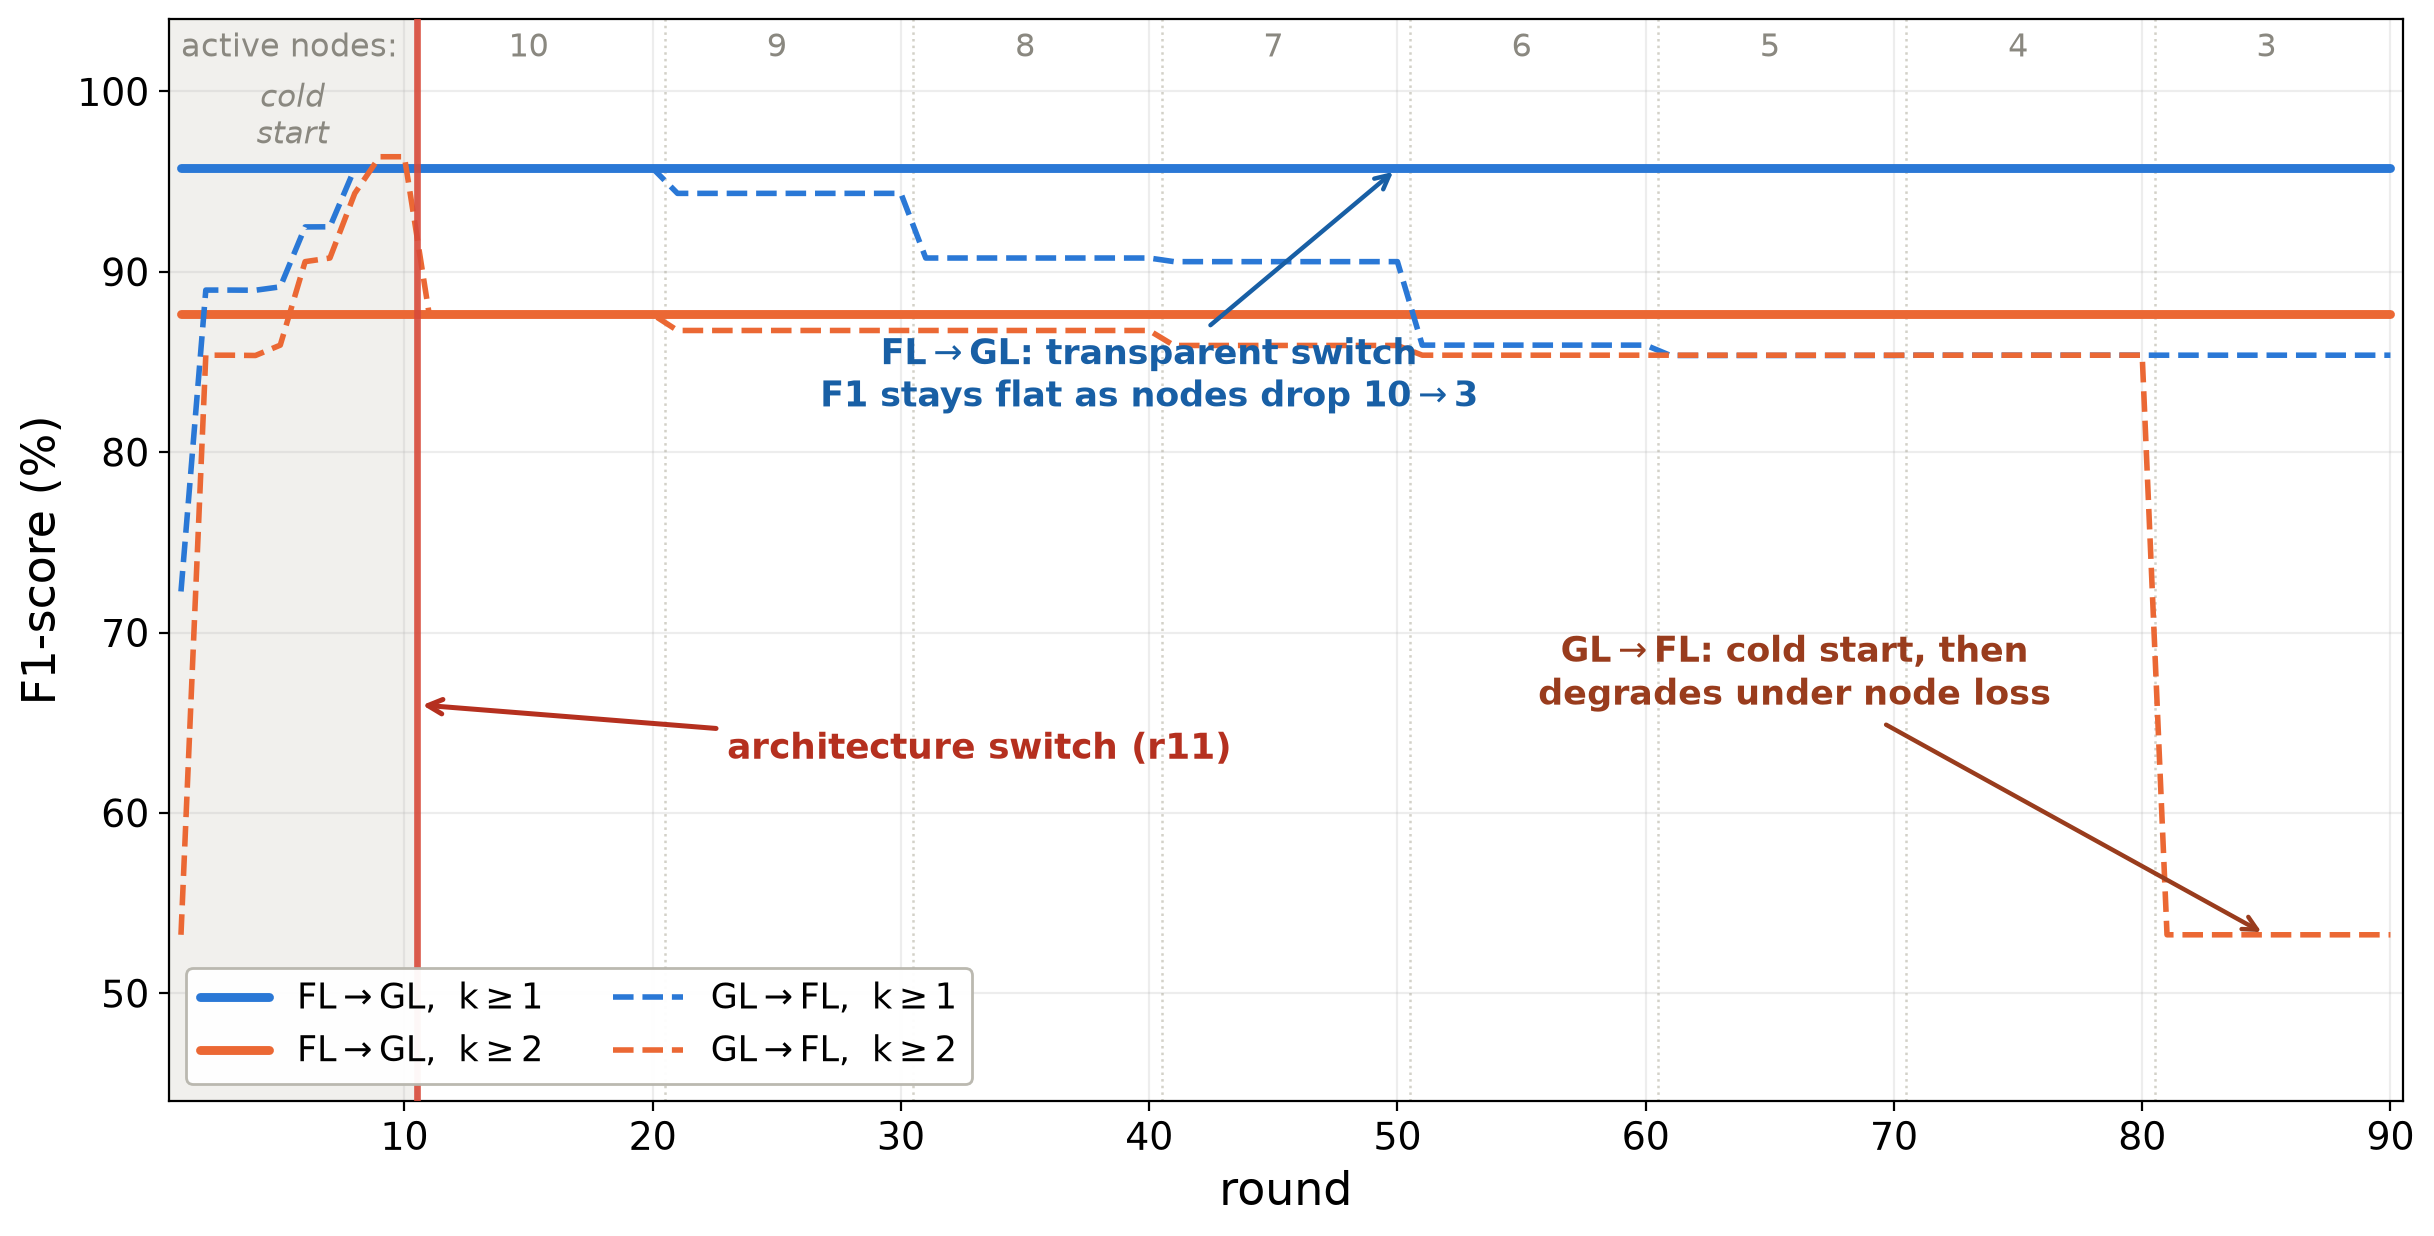
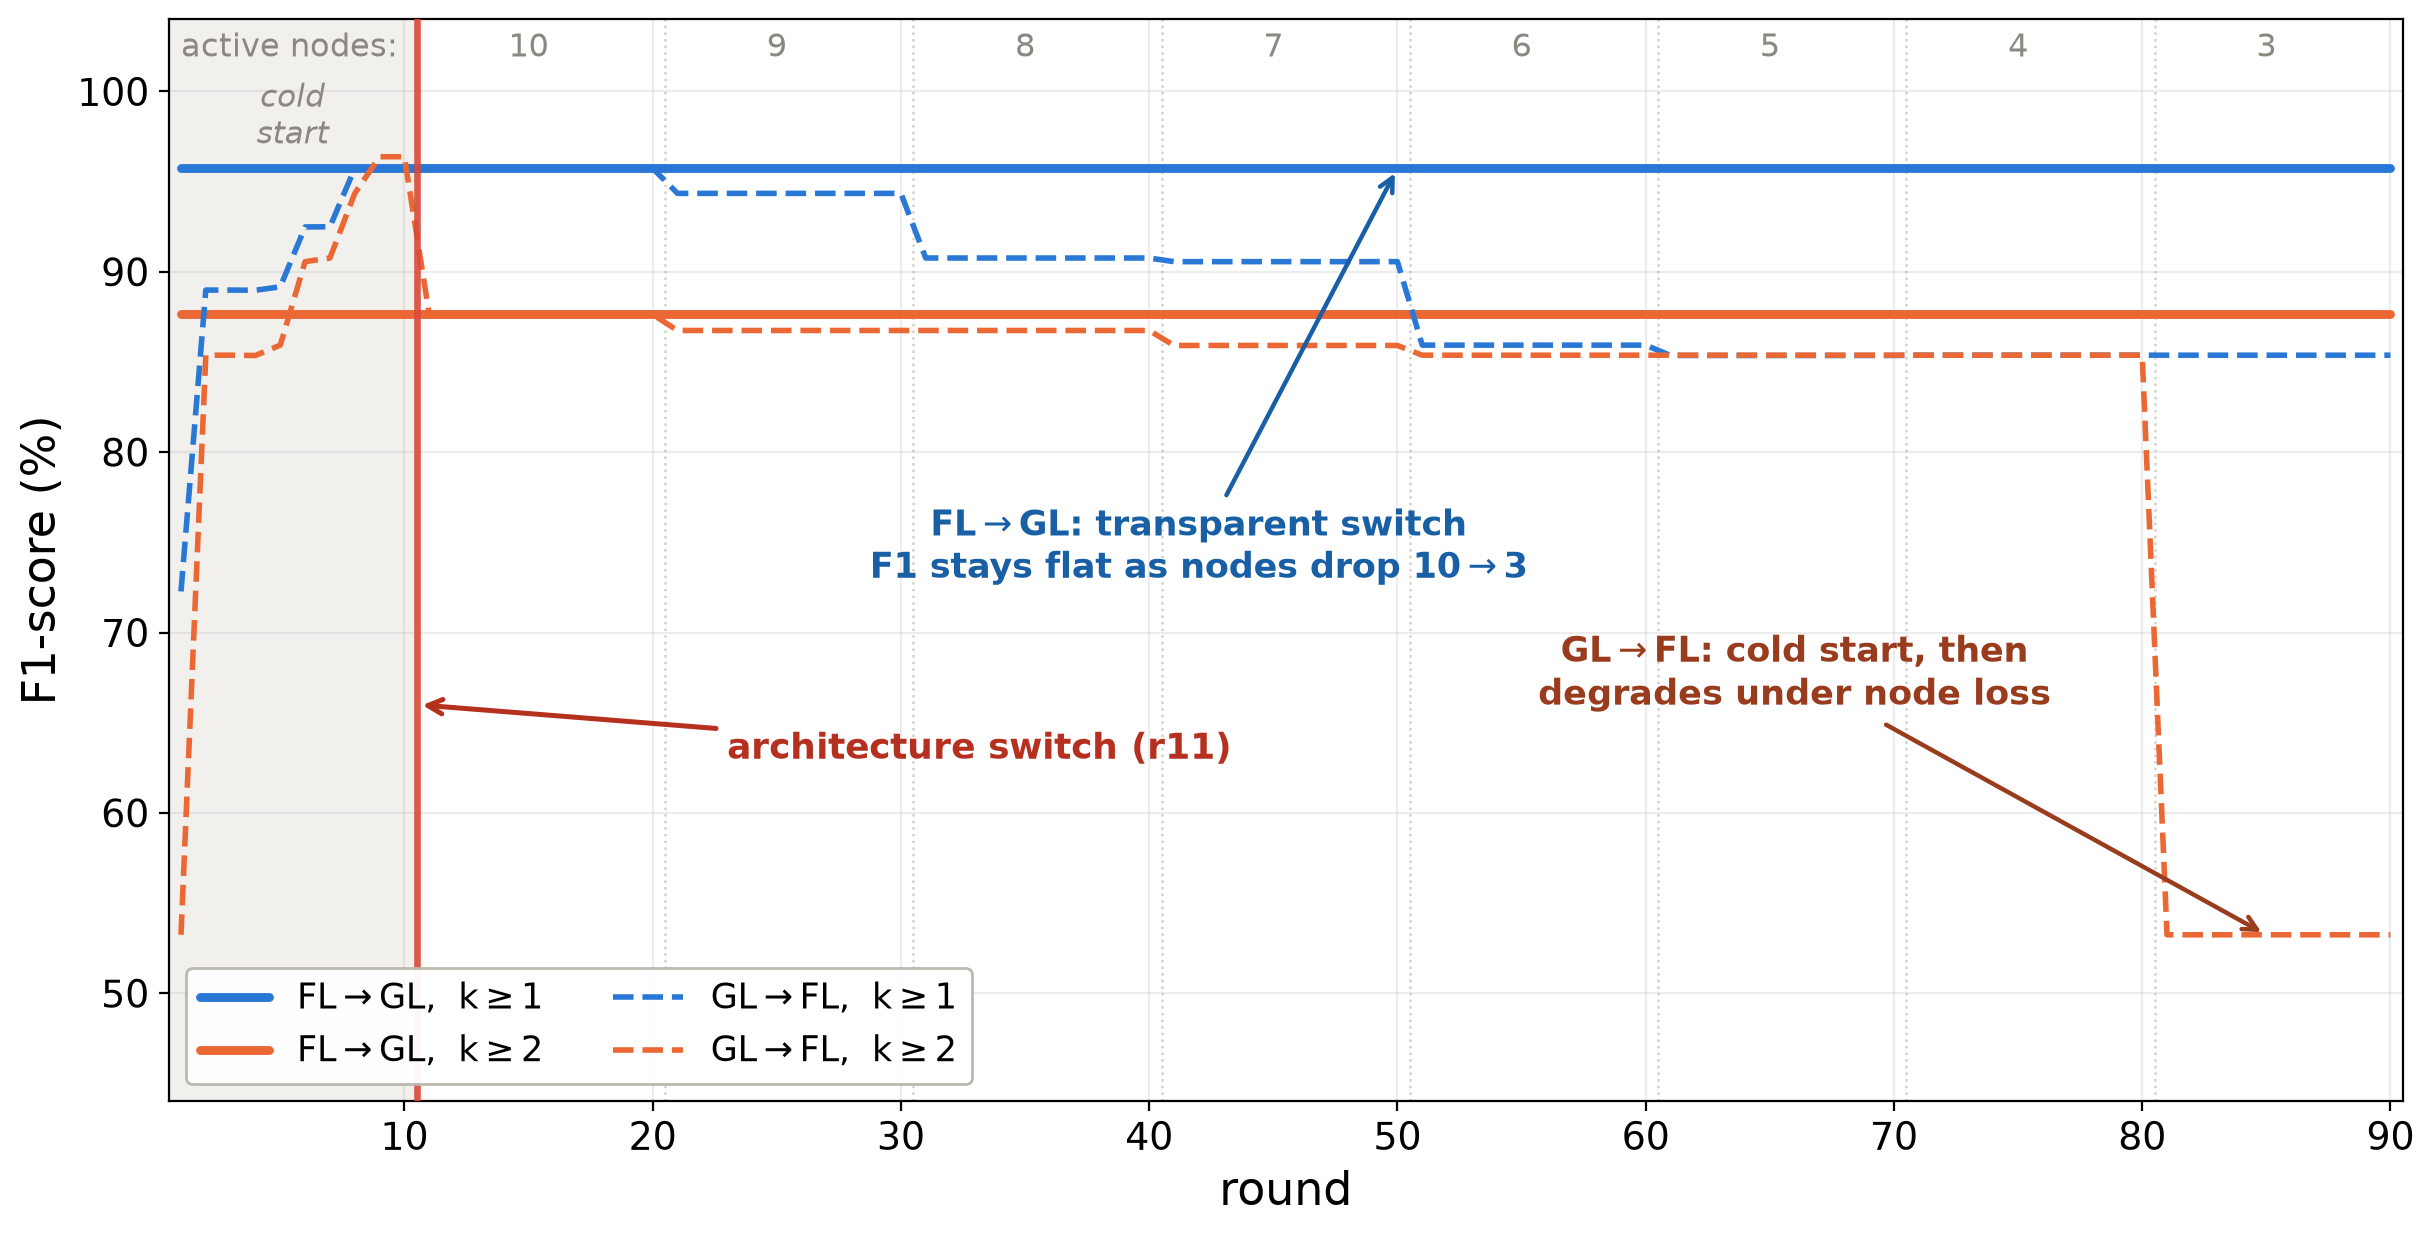
Add vs-IID contrast script (Table 13 provenance) and fix Figure 3 annotation
- scripts/contrasts_vs_iid.py: computes the three primary contrasts against the
  IID baseline (specialist vs IID under OR and k>=2; k>=2 cuts specialist FPR)
  with Holm-Bonferroni, from the saved per-seed data (no retraining). All three
  are p_Holm < 0.001, reproducing Table 13. This supersedes factorial_holm.py's
  own contrasts, which were taken against the non-specialist average.
- MANIFEST.json: register contrasts_vs_iid.csv as the Table 13 producer; relabel
  factorial_holm.csv as the per-seed data source.
- plot_transicao_adaptativa.py: lower the FL->GL annotation off the curves;
  regenerate transicao_adaptativa.{png,pdf}.

diff --git a/scripts/contrasts_vs_iid.py b/scripts/contrasts_vs_iid.py
@@ -1,0 +1,70 @@
+#!/usr/bin/env python3
+"""Three primary contrasts vs IID (paired across seeds) + Holm-Bonferroni.
+
+Produces Table 13 (specialist vs IID reference). Reads the per-seed factorial
+results (results/factorial_holm.csv) and computes the paired t-tests against the
+IID baseline (NOT the non-specialist average), which is what the paper reports:
+  C1: specialist > IID under OR (k=1), F1
+  C2: k>=2 cuts the specialist false-positive rate (OR FPR - k>=2 FPR)
+  C3: specialist > IID under corroboration (k>=2), F1
+No retraining: consumes the saved per-seed data. Saida: results/contrasts_vs_iid.csv
+Rodar: ~/venv-ereno314/bin/python scripts/contrasts_vs_iid.py
+"""
+import collections
+import csv
+import os
+
+import numpy as np
+from scipy import stats
+
+HERE = os.path.dirname(os.path.dirname(os.path.abspath(__file__)))
+SRC = os.path.join(HERE, "results", "factorial_holm.csv")
+OUT = os.path.join(HERE, "results", "contrasts_vs_iid.csv")
+
+
+def main():
+    d = collections.defaultdict(dict)
+    with open(SRC) as fh:
+        for r in csv.DictReader(fh):
+            d[int(r["seed"])][(r["partitioner"], int(r["k"]))] = {
+                "F1": float(r["F1"]), "FPR": float(r["FPR"])}
+    seeds = sorted(d)
+
+    def col(part, k, metric):
+        return np.array([d[s][(part, k)][metric] for s in seeds])
+
+    contrasts = {
+        "C1: specialist>IID (OR, F1)":  col("specialist", 1, "F1") - col("iid", 1, "F1"),
+        "C2: k>=2 cuts FPR (specialist)": col("specialist", 1, "FPR") - col("specialist", 2, "FPR"),
+        "C3: specialist>IID (k>=2, F1)": col("specialist", 2, "F1") - col("iid", 2, "F1"),
+    }
+    raw = {name: (float(arr.mean()), float(stats.ttest_1samp(arr, 0.0).pvalue))
+           for name, arr in contrasts.items()}
+
+    # Holm-Bonferroni (step-down) over the family of 3
+    order = sorted(raw, key=lambda n: raw[n][1])
+    m = len(order); run = 0.0; holm = {}
+    for i, name in enumerate(order):
+        run = max(run, min(1.0, raw[name][1] * (m - i)))
+        holm[name] = run
+
+    print(f"[contrasts] {len(seeds)} seeds: {seeds}")
+    print(f"{'contrast':<32}{'effect':>12}{'p_raw':>12}{'p_Holm':>12}  sig")
+    rows = []
+    for name in ("C1: specialist>IID (OR, F1)", "C2: k>=2 cuts FPR (specialist)",
+                 "C3: specialist>IID (k>=2, F1)"):
+        diff, p = raw[name]; ph = holm[name]
+        sig = "***" if ph < 0.001 else "**" if ph < 0.01 else "*" if ph < 0.05 else "ns"
+        print(f"{name:<32}{diff:>+12.3f}{p:>12.2e}{ph:>12.2e}  {sig}")
+        rows.append((name, diff, p, ph, sig))
+
+    os.makedirs(os.path.dirname(OUT), exist_ok=True)
+    with open(OUT, "w") as fh:
+        fh.write("contrast,effect,p_raw,p_holm,significance\n")
+        for name, diff, p, ph, sig in rows:
+            fh.write(f'"{name}",{diff:.4f},{p:.6e},{ph:.6e},{sig}\n')
+    print(f"\n[contrasts] CSV -> {os.path.relpath(OUT, HERE)}")
+
+
+if __name__ == "__main__":
+    main()

diff --git a/scripts/plot_transicao_adaptativa.py b/scripts/plot_transicao_adaptativa.py
@@ -79,7 +79,7 @@ def main():
 
     # contraste (2 anotacoes, sem sobreposicao)
     ax.annotate("FL$\\to$GL: transparent switch\nF1 stays flat as nodes drop 10$\\to$3",
-                xy=(50, 95.74), xytext=(40, 82.5), fontsize=12.5, color="#185fa5",
+                xy=(50, 95.74), xytext=(42, 73), fontsize=12.5, color="#185fa5",
                 ha="center", fontweight="bold",
                 arrowprops=dict(arrowstyle="->", color="#185fa5", lw=1.6))
     ax.annotate("GL$\\to$FL: cold start, then\ndegrades under node loss",
